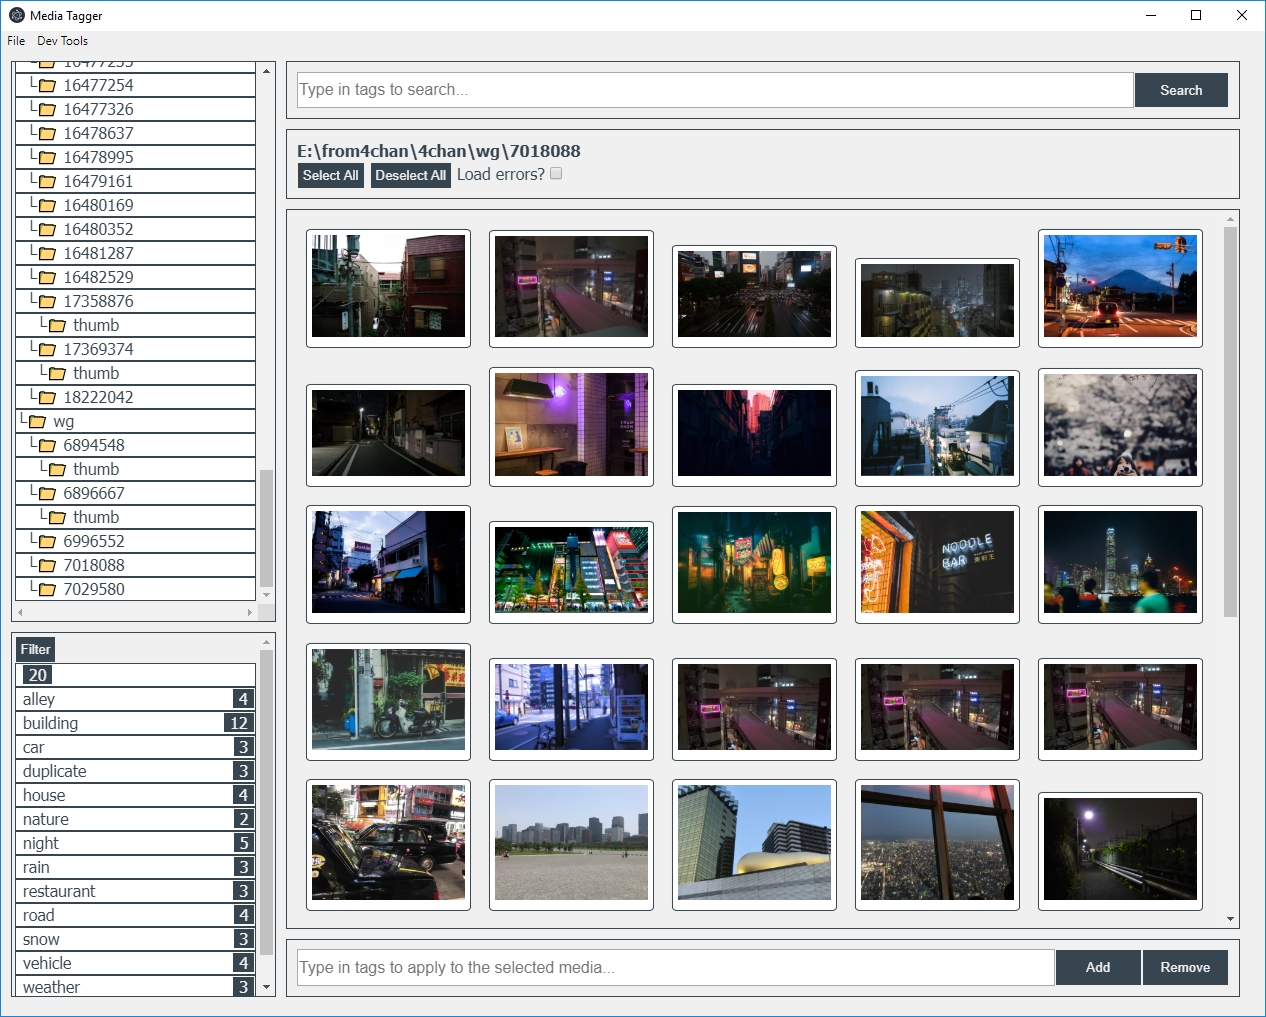
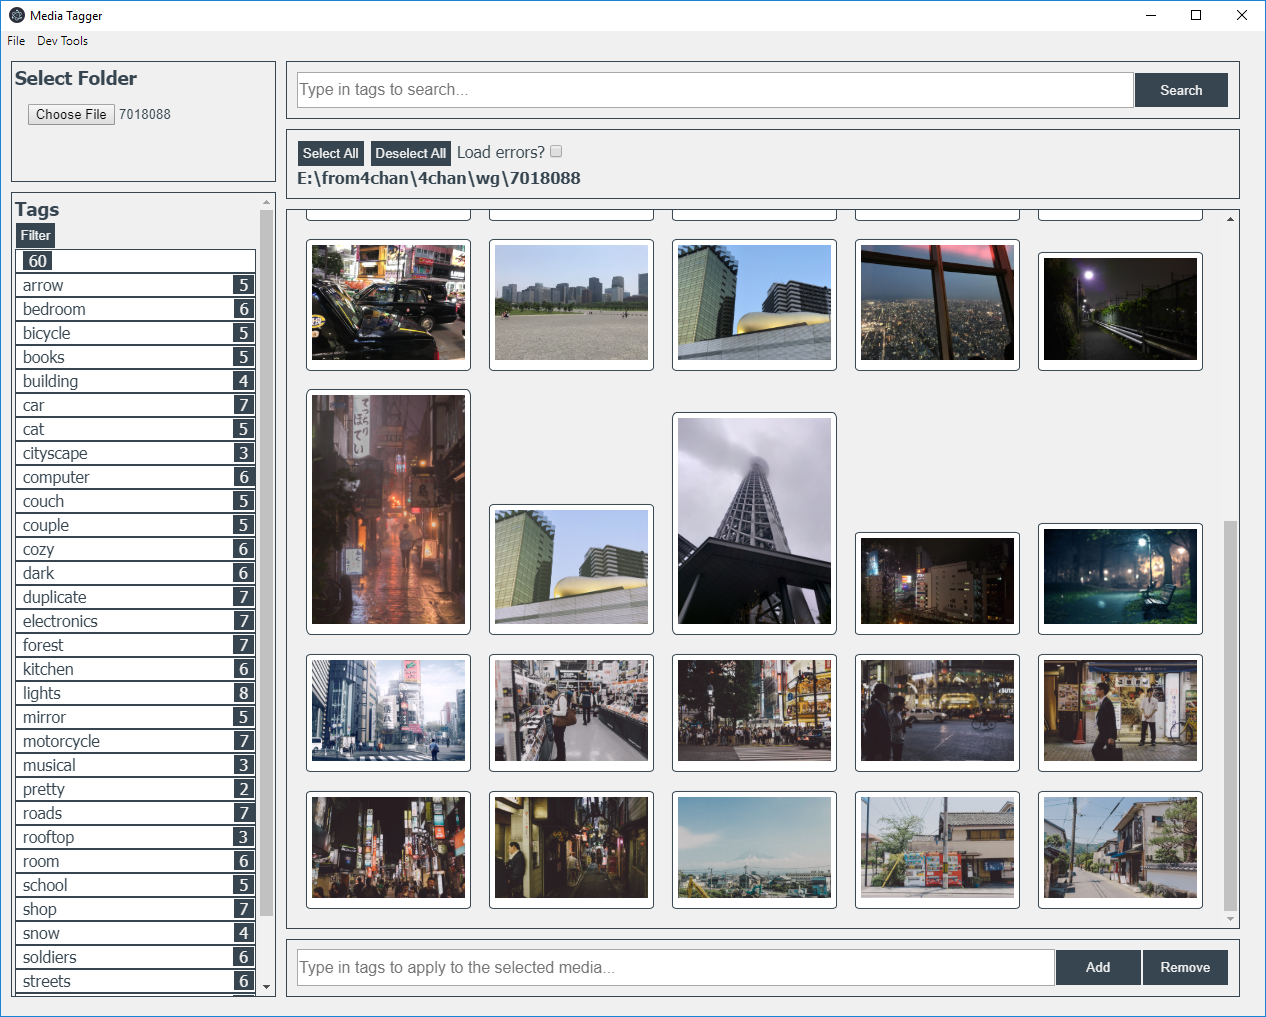
Update README, ideas, screenshot

diff --git a/extras/ideas.md b/extras/ideas.md
@@ -1,3 +1,16 @@
 ## Ideas/To-do
 
-[ ] Select folder instead of a tree?
+[x] Select folder instead of a tree?
+[ ] Switch to grid from flex?
+[x] Move select all etc. to left?
+[ ] Display tags of the images under them? Maybe a toggle?
+[ ] Move "Load Errors?" to an options section with the one above?
+[ ] Remove all tags option for selected
+[ ] Delete database option
+[ ] A separate constant array/dictionary to hold strings
+[ ] Hide file choose input with label for
+[ ] Display something when no images are present in the current folder
+[ ] Deselect after applying tag option?
+[ ] Save options to a json as well
+[ ] A setting for search to return AND instead of OR
+[ ] Select/Deselect All for tags section

diff --git a/README.md b/README.md
@@ -2,7 +2,7 @@
 A booru-like tagging software for images and videos*.
 
 ### Current Functionality
-On a pre-specified path in `program/main.js`:
+On a selected folder:
 * Add/remove tags of selected image files
 * Get images by selecting or searching for tags
 * Save tags to `db/tags.json`
@@ -10,8 +10,8 @@ On a pre-specified path in `program/main.js`:
 ![](extras/screenshot.png)
 
 ### Current Problems
-* Inability to choose folders instead of typing them in manually
-  * This is caused by file permission errors
+* ~~Inability to choose folders instead of typing them in manually~~
+  * ~~This is caused by file permission errors~~
 * No videos
 * Some visual errors
 
